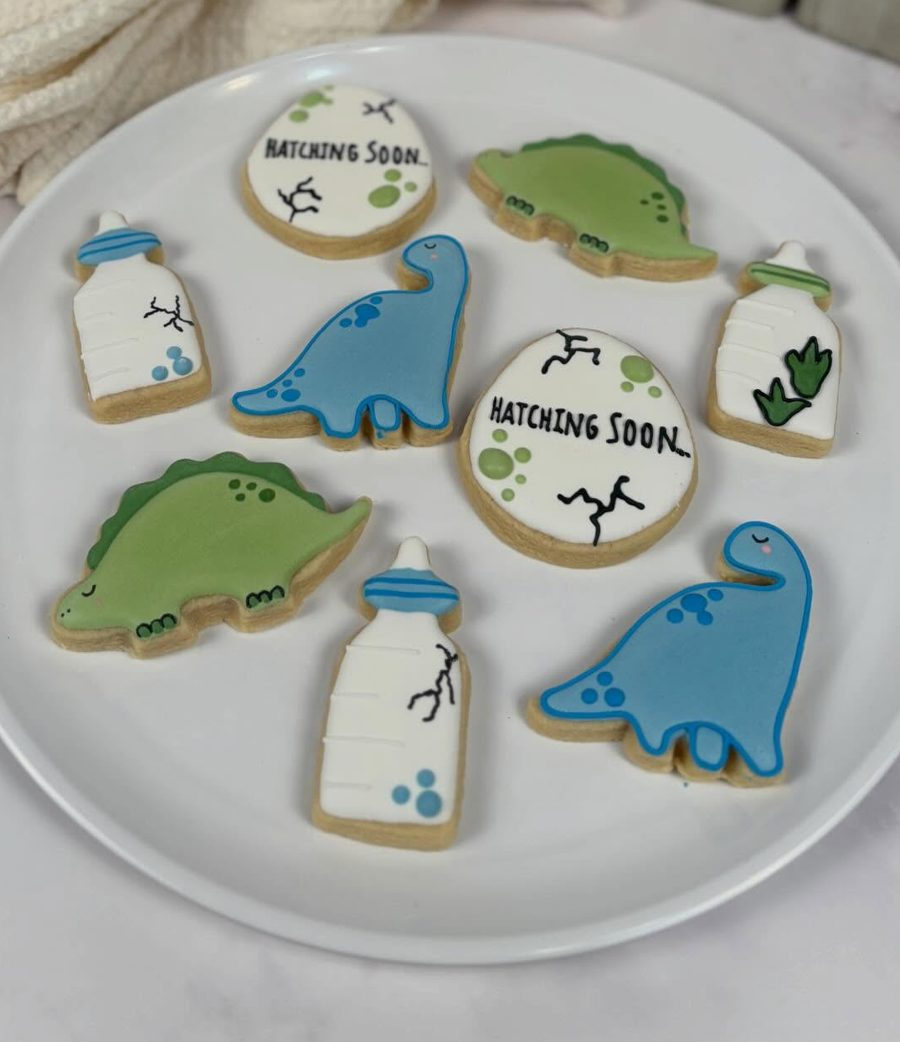
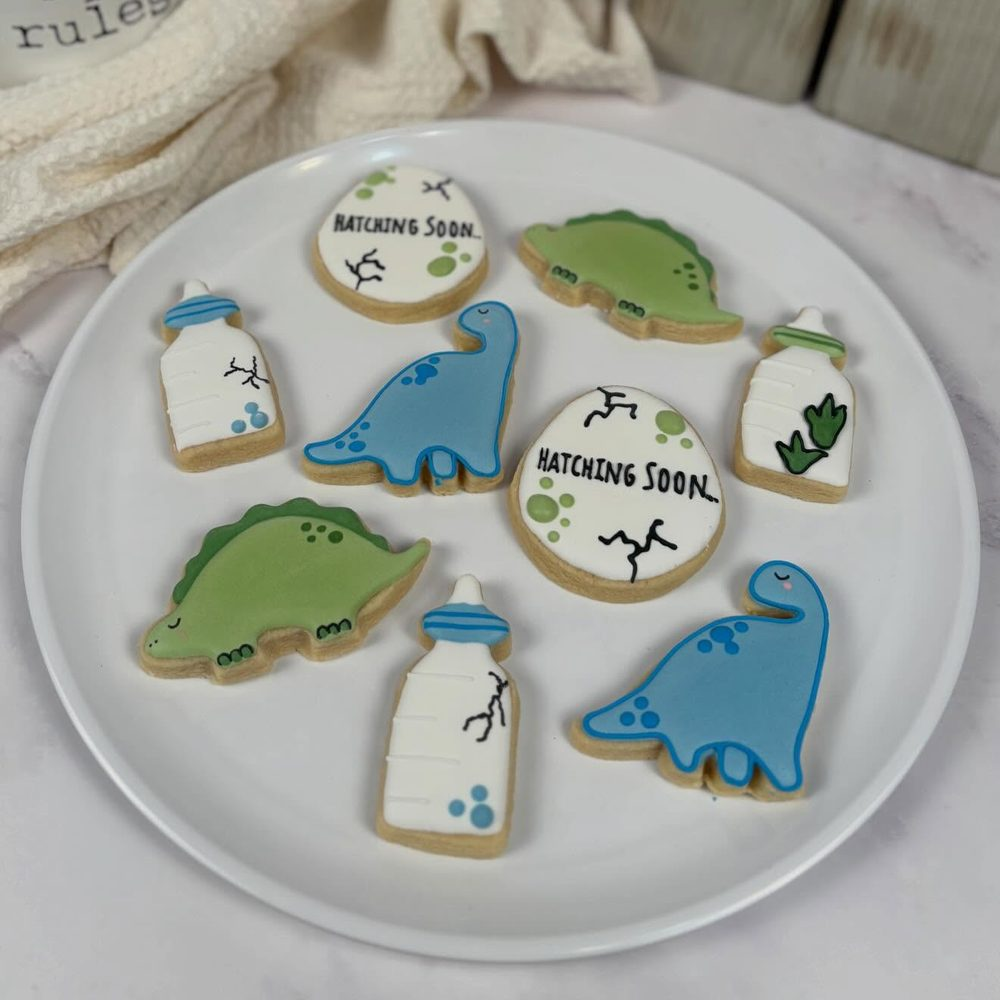
Phone layout fixes: centered cookie tile, Minnie cake pop tile, no gallery gaps

diff --git a/index.html b/index.html
@@ -13,7 +13,7 @@
 <link rel="preconnect" href="https://fonts.googleapis.com">
 <link rel="preconnect" href="https://fonts.gstatic.com" crossorigin>
 <link href="https://fonts.googleapis.com/css2?family=Bodoni+Moda:opsz,wght@6..96,700&family=Fraunces:opsz,wght@9..144,500;9..144,600;9..144,700&family=Inter:wght@400;500;600;700&display=swap" rel="stylesheet">
-<link rel="stylesheet" href="styles.css?v=11">
+<link rel="stylesheet" href="styles.css?v=12">
 </head>
 <body>
   <header class="topbar">
@@ -72,8 +72,8 @@
           <h2>What we make</h2>
           <p class="section-lead">Every order is baked fresh and decorated by hand.</p>
           <div class="tiles">
-            <a class="tile" href="#/cookies"><img src="images/tile-cookies.jpg" alt="" loading="lazy"><div><h3>Decorated cookies</h3><p>Custom sets for showers, grads, birthdays and weddings.</p><span>See the gallery →</span></div></a>
-            <a class="tile" href="#/cake-pops"><img src="images/pops-fiesta.jpg" alt="" loading="lazy"><div><h3>Cake pops</h3><p>Dipped and decorated to match your theme.</p><span>See the gallery →</span></div></a>
+            <a class="tile" href="#/cookies"><img src="images/tile-cookies.jpg?v=2" alt="" loading="lazy"><div><h3>Decorated cookies</h3><p>Custom sets for showers, grads, birthdays and weddings.</p><span>See the gallery →</span></div></a>
+            <a class="tile" href="#/cake-pops"><img src="images/minnie-pops.jpg" alt="" loading="lazy"><div><h3>Cake pops</h3><p>Dipped and decorated to match your theme.</p><span>See the gallery →</span></div></a>
             <a class="tile" href="#/cakes"><img src="images/cake-wedding-tiered.jpg" alt="" loading="lazy"><div><h3>Custom cakes</h3><p>Vintage piping, bows and buttercream.</p><span>See the gallery →</span></div></a>
             <a class="tile" href="#/order"><img src="images/flavor-chocolate-chip-styled.jpg" alt="" loading="lazy"><div><h3>Order online</h3><p>Cookies, cupcakes, cake pops and party packs by the dozen.</p><span>Start an order →</span></div></a>
           </div>
@@ -279,8 +279,8 @@
   <div class="floatbar" id="floatbar" hidden></div>
   <div class="toast" id="toast" role="status" hidden></div>
 
-  <script src="config.js?v=11"></script>
-  <script src="content.js?v=11"></script>
-  <script src="app.js?v=11"></script>
+  <script src="config.js?v=12"></script>
+  <script src="content.js?v=12"></script>
+  <script src="app.js?v=12"></script>
 </body>
 </html>

diff --git a/styles.css b/styles.css
@@ -375,3 +375,18 @@ a.product { color: inherit; text-decoration: none; }
   .order-cta { padding: 8px 12px; font-size: 13px; }
   .cart-btn, .menu-toggle { width: 40px; height: 40px; }
 }
+
+/* ---------- Phone-first fixes ---------- */
+@media (max-width: 700px) {
+  /* Cake pop grid: no tall/wide tiles on phones, so there are no gaps */
+  .showcase.grid .big-row { grid-template-columns: 1fr !important; } /* overrides the inline column count */
+  .showcase.grid .small-grid .tall { grid-row: auto; }
+  .showcase.grid .small-grid .wide { grid-column: auto; }
+  .showcase.grid .small-grid .wide img, .showcase.grid .small-grid .tall img,
+  .showcase.grid .small-grid .wide.tall img { aspect-ratio: 1 / 1; height: auto; }
+}
+@media (max-width: 480px) {
+  /* Category tiles: photo, name, link. Captions made the cards uneven. */
+  .tile p { display: none; }
+  .tile img { aspect-ratio: 1 / 1; }
+}
